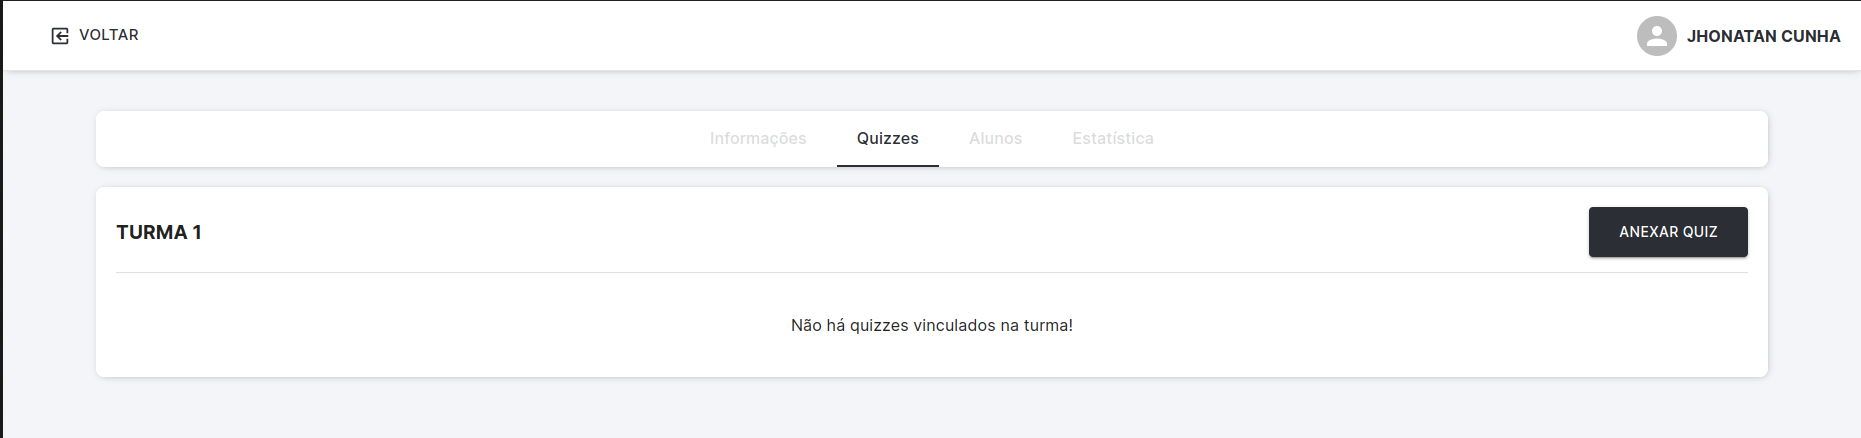
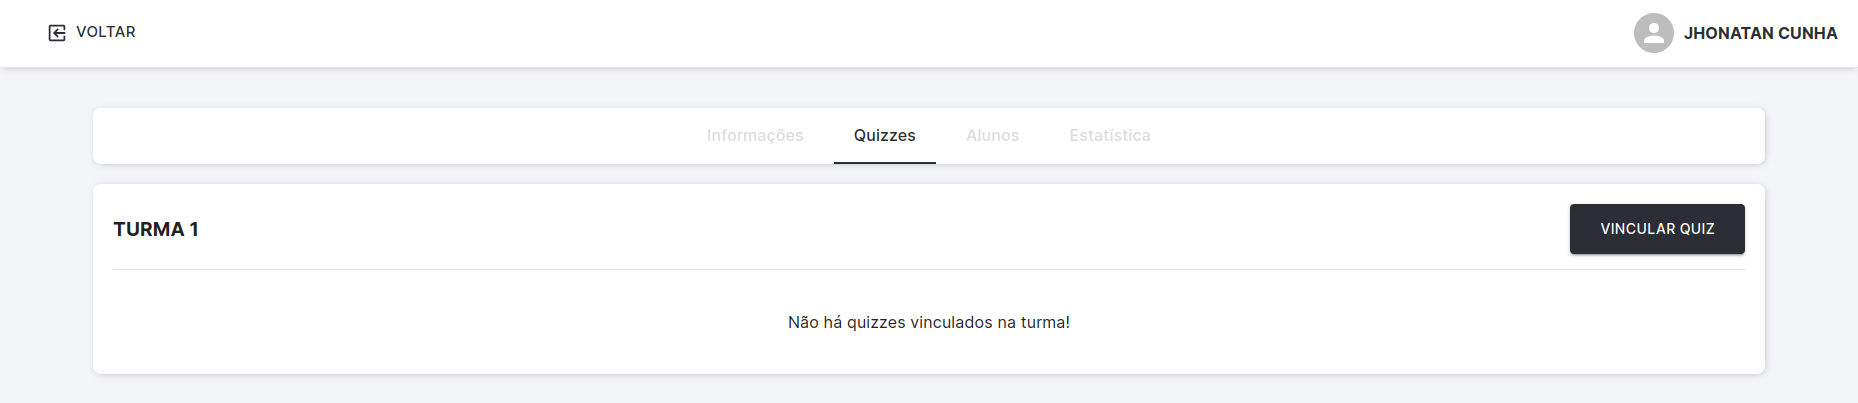
:sparkles: Arrumando imagens do FAQ de Turmas.

diff --git a/frontend/src/pages/FAQ/ClassFAQ/components/HowToAppendQuiz.js b/frontend/src/pages/FAQ/ClassFAQ/components/HowToAppendQuiz.js
@@ -32,7 +32,7 @@ const HowToAppendQuiz = () => {
       </StyledFigure>
 
       <StyledParagraph>
-        Feito isso, abra a seção onde se encontra a turma que deseja anexar
+        Feito isso, abra a seção onde se encontra a turma que deseja vincular
         quizzes (pública ou privada).
       </StyledParagraph>
 
@@ -53,7 +53,7 @@ const HowToAppendQuiz = () => {
 
       <StyledParagraph>
         Uma página será aberta, possibilitando o gerenciamento da Turma. Para
-        anexar novos quizzes a turma, clique em{' '}
+        vincular novos quizzes a turma, clique em{' '}
         <TextBold>{`"Quizzes"`}</TextBold>.
       </StyledParagraph>
 
@@ -69,8 +69,8 @@ const HowToAppendQuiz = () => {
 
       <StyledParagraph>
         Após isso, uma nova página será mostrada, contendo todos os quizzes já
-        anexados em sua Turma. Para anexar um novo quiz, clique em
-        <TextBold>{` "ANEXAR QUIZ"`}</TextBold>.
+        anexados em sua Turma. Para vincular um novo quiz, clique em
+        <TextBold>{` "VINCULAR QUIZ"`}</TextBold>.
       </StyledParagraph>
 
       <StyledFigure>
@@ -85,18 +85,18 @@ const HowToAppendQuiz = () => {
 
       <StyledParagraph>
         Após isso, uma janela será aberta contendo todos os seus quizzes
-        públicados. Para anexar quizzes, basta clicar em cima do mesmo.
+        públicados. Para vincular quizzes, basta clicar em cima do mesmo.
       </StyledParagraph>
 
       <StyledFigure>
-        <StyledImg src={ModalAppendQuiz} alt="Modal para anexar quizzes." />
+        <StyledImg src={ModalAppendQuiz} alt="Modal para vincular quizzes." />
         <StyledFigureCaption>
-          Modal para anexar quizzes na Turma.
+          Modal para vincular quizzes na Turma.
         </StyledFigureCaption>
       </StyledFigure>
 
       <StyledParagraph>
-        Após isso, os quizzes selecionados já estarão anexados em sua Turma.
+        Após isso, os quizzes selecionados já estarão vinculados em sua Turma.
       </StyledParagraph>
     </Wrapper>
   );

diff --git a/frontend/src/pages/Classes/ManageClass/QuizzesOfClass/index.js b/frontend/src/pages/Classes/ManageClass/QuizzesOfClass/index.js
@@ -99,7 +99,7 @@ const QuizzesOfClass = () => {
               onClick={toogleModal}
               loading={false}
             >
-              Anexar Quiz
+              Vincular Quiz
             </StyledButton>
           </HeaderWrapper>
           <Divider />
@@ -143,7 +143,11 @@ const QuizzesOfClass = () => {
                           <BarChart />
                         </StyledIconButton>
                       </Tooltip>
-                      <Tooltip arrow ariaLabel="deletar" title="Deletar">
+                      <Tooltip
+                        arrow
+                        ariaLabel="deletar"
+                        title="Desvincular Quiz"
+                      >
                         <StyledIconButton
                           onClick={() => handleOpenModelDettachQuiz(quiz.id)}
                         >
@@ -162,7 +166,7 @@ const QuizzesOfClass = () => {
       <Modal
         open={visibilityModal}
         handleClose={toogleModal}
-        modalTitle="Anexar Quizzes"
+        modalTitle="Vincular Quizzes"
         modalDescription="Adicione quizzes em sua turma..."
       >
         <ModalGetAvailableQuizzes

diff --git a/frontend/src/pages/FAQ/ClassFAQ/index.js b/frontend/src/pages/FAQ/ClassFAQ/index.js
@@ -113,8 +113,8 @@ const QuestionFAQ = () => {
         >
           <AccordionGrid>
             <Typography>
-              Como faço para <TextStrongBold>anexar quizzes</TextStrongBold> em
-              uma Turma?
+              Como faço para <TextStrongBold>vincular quizzes</TextStrongBold>{' '}
+              em uma Turma?
             </Typography>
           </AccordionGrid>
         </StyledAccordionSummary>

diff --git a/frontend/src/pages/Classes/ManageClass/components/ModalGetAvailableQuizzes/index.js b/frontend/src/pages/Classes/ManageClass/components/ModalGetAvailableQuizzes/index.js
@@ -132,7 +132,7 @@ const ModalGetAvailableQuizzes = forwardRef((props, _) => {
 
           <Grid item xs={9} md={11}>
             <Typography variant="h5" color="primary">
-              Anexar Quizzes
+              Vincular Quizzes
             </Typography>
           </Grid>
         </Grid>

diff --git a/frontend/src/pages/Classes/ManageClass/components/ModalGetAvailableQuizzes/Quiz/style.js b/frontend/src/pages/Classes/ManageClass/components/ModalGetAvailableQuizzes/Quiz/style.js
@@ -36,6 +36,7 @@ export const CheckBox = styled.input.attrs({
 export const ImageQuiz = styled.img`
   width: 220px;
   border-radius: 8px 0 0 8px;
+  height: 100%;
 `;
 
 export const EmptyImage = styled.div`
